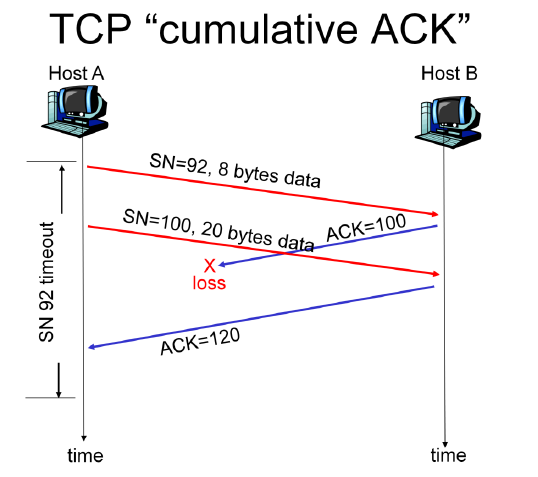
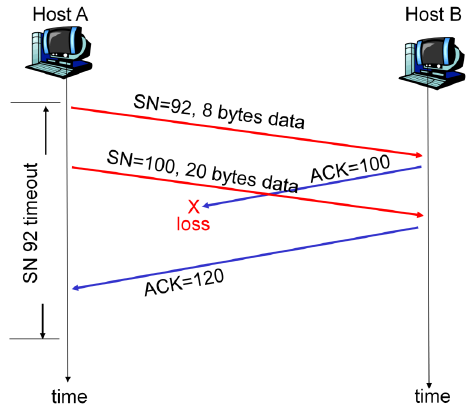
Transport Section überarbeitet

Changed region(s): [[0.0294, 0.0, 1.0, 0.9688], [0.5, 0.5938, 0.6765, 0.6562]]

diff --git a/sections/3_transport.tex b/sections/3_transport.tex
@@ -36,112 +36,197 @@ Aufgepasst: Die Checksumme berücksichtigt auch den IP-Header und verletzt somit
 \subsubsection{Analyse TCP Stream}
 
 \begin{minipage}[t]{0.5\linewidth}
-	\textbf{Cumulative ACK}\\
-	\includegraphics[width=\linewidth]{media/cumulativeACK.png}\\
+	\textbf{Cumulative ACK}
+
+	\vspace{5mm}
+
+	\includegraphics[width=0.9\textwidth]{media/cumulativeACK.png}\\
 \end{minipage}
 \begin{minipage}[t]{0.5\linewidth}
-	\textbf{Delayed ACK}\\
-	Im Prinzip wie Cumulative ACK. Die ACK Verluste sind aber absichtlich, d.h der Empfänger sendet nicht für jedes Paket ein ACK, sondern wartet auf eine der 2 Bedingugen:\\\\
-	1. TCPDelAckTicks: Ist nach Ablauf dieses Timers kein Paket mehr angekommen, sendet er ein kumulatives ACK. \\
-	2. TCPAckFrequency: Wurde für die festgelegte Anzahl Pakete kein ACK versendet, sendet er ein kumulatives ACK.\\
+	\textbf{Delayed ACK}
+
+	\vspace{5mm}
+
+	Im Prinzip wie Cumulative ACK. Die ACK Verluste sind aber absichtlich, d.h der
+	Empfänger sendet nicht für jedes Paket ein ACK, sondern wartet auf eine der 2
+	Bedingugen:
+
+	\begin{enumerate}
+		\item TCPDelAckTicks: Ist nach Ablauf dieses Timers kein Paket mehr
+			angekommen, sendet er ein kumulatives ACK.
+		\item TCPAckFrequency: Wurde für die festgelegte Anzahl Pakete kein ACK
+			versendet, sendet er ein kumulatives ACK.
+	\end{enumerate}
 \end{minipage}
 
 \subsubsection{TCP Flow Control}
 
 \textbf{Window Size}\\
 
-Mit dem Receive Window (RWin) gibt der Empfänger dem Sender an, wie viele Bytes der Sender noch schicken darf, ohne ein ACK erhalten zu haben. Receive Window ist die Receive Buffer Grösse des Empfängers.\\
-Das Ziel ist es die Pipe zwischen Sender und Empfänger immer optimal zu füllen, sodass der Sender nicht auf ACK's warten muss. D.h Die Window Size sollte grösse sein als RTT * Bandbreite.\\
-Schickt der Sender das erste Paket ab, dauert es eine RTT bis er ein ACK bekommt. Während dieser Zeit sollte der Sender aber fortlaufend weitere Pakete in die Pipe legen dürfen. Oder anders gesagt, die Anzahl Packete die der Sender während einer RTT in die Pipe legen kann ist das BDP (Bandwidth Delay Product). Die Window Size sollte optimalerweise mindestens so gross sein wie das BDP, da sonst auf ACK's gewartet werden muss.\\\\
-$BDP=RTT \cdot Bandwidth$\\\\
-Beispiel Kommunikation nach Thailand:\\
+Mit dem Receive Window (RWin) gibt der Empfänger dem Sender an, wie viele Bytes
+der Sender noch schicken darf, ohne ein ACK erhalten zu haben. Receive Window
+ist die Receive Buffer Grösse des Empfängers.
 
-\begin{align*}
-R_{WIN} = 50000 \frac{KBit}{s} \cdot 0.3s = 150000 KBits = 1875 KBytes
-\end{align*}
+Das Ziel ist es die Pipe zwischen Sender und Empfänger immer optimal zu füllen,
+sodass der Sender nicht auf ACK's warten muss. Die Window Size sollte grösse
+sein als RTT * Bandbreite.
 
-\textbf{Maximum Distanzen}\\
-Nachfolgend ein Beispiel für die Maximale Distanz (Füllung der Pipe) bei gegebener Window Size von 64KB und Geschwindigkeit von 1.5MBit/s
-\begin{align*}
-RTT = \frac{R_{WIN}}{R_{MAX}}\\
-\end{align*}
-\begin{align*}
-\frac{64KB \cdot \frac{8Bit}{Byte} \cdot \frac{1024Bit}{KByte}}{\frac{1.5Mbit}{s}} = 0.35s
-\end{align*}
-\begin{align*}
-Distance = v \cdot t =(\frac{2}{3} \cdot 300000 \frac{km}{s})\cdot 0.35s = 70000km
-\end{align*}
+Schickt der Sender das erste Paket ab, dauert es eine RTT bis er ein ACK
+bekommt. Während dieser Zeit sollte der Sender aber fortlaufend weitere Pakete
+in die Pipe legen dürfen. Oder anders gesagt, die Anzahl Pakete die der Sender
+während einer RTT in die Pipe legen kann ist das BDP (Bandwidth Delay Product).
+Die Window Size sollte optimalerweise mindestens so gross sein wie das BDP, da
+sonst auf ACK's gewartet werden muss.
 
-\textbf{Duplicate Acknowledgement}\\
-Der Empfänger sendet ein dup ACK (Acknowledgment, dass er bereits gesendet hat), d.h ein Paket vom Sender muss verloren gegangen sein. Nach 3 Dub ACK's (4 Identischen ACK's ohne weitere Pakete dazwischen, sendet der Sender das verlorengegangene Paket nochmals.
+$BDP=RTT \cdot Bandwidth$
 
+Beispiel Kommunikation nach Thailand:
+\[
+	R_{win} = \SI{50000}{\kibi\bit\per\second} \cdot \SI{.3}{\second} = \SI{150000}{\kibi\bit} = \SI{1875}{\kibi\byte}
+\]
 
-\textbf{Fast Retransmit}\\
-Sobald ein Paket Out-of-Order empfangen wird, wird sofort ein dup ACK gesendet. Die Pakete die in der Zwischenzeit beim Empfänger ankommen werden jedoch behalten und nach einem allfälligen Retransmit kummulativ bestätigt.\\
-Ein Dub ACK heisst, dass ein Paket Out-Of-Order ist, wobei 3 Pakete ein ziemlich sicheres indiz für ein Paketverlust ist.
+\textbf{Maximale Distanzen}
 
-\textbf{Selective ACK}\\
+Nachfolgend ein Beispiel für die Maximale Distanz (Füllung der Pipe) bei
+gegebener Window Size von 64 KiB und Geschwindigkeit von 1.5 MiBit/s.
+\[
+	RTT = \frac{R_{win}}{R_{max}}\\
+\]
+\[
+	\frac{\SI{64}{\kibi\byte} \cdot \SI{8}{\bit\per\byte} \cdot
+	\SI{1024}{\bit\per\kibi\byte}}{\SI{1.5}{\mebi\bit\per\second}} = \SI{.35}{s}
+\]
+\[
+	Distance = v \cdot t =\left(\frac{2}{3} \cdot \SI{300000}{\kilo\meter\per\second}\right)\cdot \SI{.35}{s} = \SI{70000}{\kilo\meter}
+\]
+
+\textbf{Duplicate Acknowledgement}
+
+Der Empfänger sendet ein Dup ACK (Acknowledgment, dass er bereits gesendet hat),
+d.h ein Paket vom Sender muss verloren gegangen sein. Nach 3 Dup ACK's (4
+Identischen ACK's ohne weitere Pakete dazwischen, sendet der Sender das
+verlorengegangene Paket nochmals.
+
+\textbf{Fast Retransmit}
+
+Sobald ein Paket Out-of-Order empfangen wird, wird sofort ein Dup ACK gesendet.
+Die Pakete die in der Zwischenzeit beim Empfänger ankommen werden jedoch
+behalten und nach einem allfälligen Retransmit kumulativ bestätigt.
+
+Ein Dup ACK heisst, dass ein Paket Out-Of-Order ist, wobei 3 Pakete ein ziemlich
+sicheres Indiz für ein Paketverlust ist.
+
+\textbf{Selective ACK}
+
 Die SACK Option muss beim Verbindungsaufbau im SYN aktiviert werden. 
-Ein ACK mit SACK beinhaltet Block mit Daten, die bereits erfolgreich empfangen wurden. D.h die Daten unterhalb (ACK - beginn des Blocks) und oberhalb des Blocks müssen nochmals versandt werden. Die Blockstart bzw. end Oktett angaben werden mittels 32Bit Werten dargestellt. Ein Bock ist also 8 Bytes gross.
-Die Maximalgrösse des TCP Headers ist 40 Bytes, demnach sind maximal 4 Blöcke (32Bytes) + Option Type / LEN (2Bytes) pro Paket möglich. Jedoch wird in diesem Zusammenhang auch noch die RTTM Option verwendet welche 10 + 2 Bytes benötigt verwendet. Somit bleibt nur noch für 3 Blöcke Platz.
 
-\textbf{Congestion Window (cwnd) / Slow Start}\\
-Das Congestion Window ist die Flusskontrolle auf Senderseite im Gegensatz zur Window Size welche die Flusskontrolle auf Empfängerseite darstellt. Die CWND Size wird jedoch nicht kommuniziert, sie stellt nur eine lokale Kontrollgrösse dar. Die CWND legt die Anzahl Segmente(MSS wird vom Empfänger mittgeteilt) fest, welche ohne ACK's gesendet werden können. Zu Beginn ist dieser Wert 1 (Slow Start) und wird nach jedem ACK erhöht. Schlussendlich gilt der kleinere Wert $min(cwnd,WindowSize)$ als MaxWin Size und bestimmt wieviele Segmente ohne ACK's höchstens gesendet werden dürfen.
+Ein ACK mit SACK beinhaltet Block mit Daten, die bereits erfolgreich empfangen
+wurden. D.h die Daten unterhalb (ACK - beginn des Blocks) und oberhalb des
+Blocks müssen nochmals versandt werden. Die Blockstart bzw. end Oktett angaben
+werden mittels 32Bit Werten dargestellt. Ein Bock ist also 8 Bytes gross.
 
+Die Maximalgrösse des TCP Headers ist 40 Bytes, demnach sind maximal 4 Blöcke
+(32Bytes) + Option Type / LEN (2Bytes) pro Paket möglich. Jedoch wird in diesem
+Zusammenhang auch noch die RTTM Option verwendet welche 10 + 2 Bytes benötigt
+verwendet. Somit bleibt nur noch für 3 Blöcke Platz.
+
+\textbf{Congestion Window (CWND) / Slow Start}
+
+Das Congestion Window ist die Flusskontrolle auf Senderseite im Gegensatz zur
+Window Size welche die Flusskontrolle auf Empfängerseite darstellt. Die CWND
+Size wird jedoch nicht kommuniziert, sie stellt nur eine lokale Kontrollgrösse
+dar. Die CWND legt die Anzahl Segmente fest, welche ohne ACK's gesendet werden
+können. Die MSS (Maximum Segment Size) wird vom Empfänger mittgeteilt. Zu Beginn
+ist dieser Wert 1 (Slow Start) und wird nach jedem ACK erhöht. Schlussendlich
+gilt der kleinere Wert $min(cwnd,WindowSize)$ als MaxWin Size und bestimmt
+wieviele Segmente ohne ACK's höchstens gesendet werden dürfen.
 
 \subsubsection{TCPTrace}
-\includegraphics[scale=0.5]{media/tcptraceUpload.png}\\
-Anhand der schnell ansteigenden Sequenznummern ist zu erkennen, dass es sich um einen Upload handelt.\\
-\includegraphics[scale=0.5]{media/tcptraceDownload.png}\\
-Anhand der nur langsam erhöhenden Sequenznummer ist zu erkennen, dass nur sehr wenige Daten versendet werden und es sich somit um einen Download handelt.
+
+\includegraphics[scale=0.45]{media/tcptraceUpload.png}
+
+Anhand der schnell ansteigenden Sequenznummern ist zu erkennen, dass es sich um
+einen Upload handelt.
+
+\includegraphics[scale=0.45]{media/tcptraceDownload.png}
+
+Anhand der nur langsam erhöhenden Sequenznummer ist zu erkennen, dass nur sehr
+wenige Daten versendet werden und es sich somit um einen Download handelt.
 
 
 \subsection{UDP}
 
-\includegraphics[scale=0.8]{media/UDPHeader.png}
-Aufgepasst: Die Checksumme berücksichtigt auch den IP-Header und verletzt somit das Schichten Modell. \\
+\includegraphics[width=\textwidth]{media/UDPHeader.png}
+
+Aufgepasst: Die Checksumme berücksichtigt auch den IP-Header und verletzt somit
+das Schichten Modell.
+
 Das Längenfeld beinhaltet auch den UDP Header, ist also immer mindestens 8.
-\\
+
 \begin{align*}
-Maximum Segment Size (MSS) = MTU - IPHeader - UDP Header = 1472\\
-MTU = 1500Bytes\\
-IPHeader = 20 Bytes
-UDPHeader = 8Bytes
+Maximum Segment Size (MSS) = MTU - IPHeader - UDP Header &= 1472\\
+MTU &= \SI{1500}{\byte}\\
+IPHeader &= \SI{20}{\byte}\\
+UDPHeader &= \SI{8}{\byte}
 \end{align*}
 
 \subsubsection{Analyse UDP Stream}
 
 \includegraphics[scale=1.0]{media/UDPStream.png}
 
-\textbf{MAC Header}\\
-\begin{tabular}[h]{ll}
-DST Address: & 00:24:D7:4A:09:1C\\
-SRC Address: & 00:22:FA:BA:D1:DC\\
-Ethertype: & 0x8000 (IP)\\
+\textbf{MAC Header}
+
+\begin{tabular}[h]{|l|l|}
+	\hline
+	DST Address: & 00:24:D7:4A:09:1C \\
+	\hline
+	SRC Address: & 00:22:FA:BA:D1:DC \\
+	\hline
+	Ethertype: & 0x8000 (IP) \\
+	\hline
 \end{tabular}
 
+\textbf{IP Header}
 
-\textbf{IP Header}\\
-\begin{tabular}[h]{ll}
-Version \& IHL: & 0x45 (Version 4, IHL 5)\\
-TOS: & 0x00\\
-Total Length: & 0x004e (78 Bytes)\\
-Identification: & 0xC064 (49252)\\
-Flags \& Offset: & 0x0000\\
-TTL: & 0x40 (128)\\
-Protocol: & 0x11 (17/UDP)\\
-Checksum: & 0xB206 \\
-Src Address: & 0x98.0x60.0xED.0xCE (152.96.237.206)\\
-Dst Address: 0x98.0x60.0xE9.0xA4 (152.96.233.164)\\
-Option \& Padding: & -\\
+\begin{tabular}[h]{|l|l|}
+	\hline
+	Version \& IHL: & 0x45 (Version 4, IHL 5) \\
+	\hline
+	TOS: & 0x00 \\
+	\hline
+	Total Length: & 0x004e (78 Bytes) \\
+	\hline
+	Identification: & 0xC064 (49252) \\
+	\hline
+	Flags \& Offset: & 0x0000 \\
+	\hline
+	TTL: & 0x40 (128) \\
+	\hline
+	Protocol: & 0x11 (17/UDP) \\
+	\hline
+	Checksum: & 0xB206 \\
+	\hline
+	Src Address: & 0x98.0x60.0xED.0xCE (152.96.237.206) \\
+	\hline
+	Dst Address: & 0x98.0x60.0xE9.0xA4 (152.96.233.164) \\
+	\hline
+	Option \& Padding: & - \\
+	\hline
 \end{tabular}
 
-\textbf{UDP Header}\\
-\begin{tabular}[h]{ll}
-Source Port: & 0x0F0A (3850)\\
-Destination Port: & 0x0F0B (3851)\\
-Length: 0x003A & (58 Bytes)\\
-Checksum: & 0x4E07\\
-Data: & hallo chrigi00000000.... (50 Bytes)
+\textbf{UDP Header}
+
+\begin{tabular}[h]{|l|l|}
+	\hline
+	Source Port: & 0x0F0A (3850) \\
+	\hline
+	Destination Port: & 0x0F0B (3851) \\
+	\hline
+	Length: 0x003A & (58 Bytes) \\
+	\hline
+	Checksum: & 0x4E07 \\
+	\hline
+	Data: & hallo chrigi00000000.... (50 Bytes) \\
+	\hline
 \end{tabular}
 

diff --git a/README.md b/README.md
@@ -2,3 +2,5 @@ CN1
 ===
 
 Work in progress.
+
+License: CC by-sa 3.0
